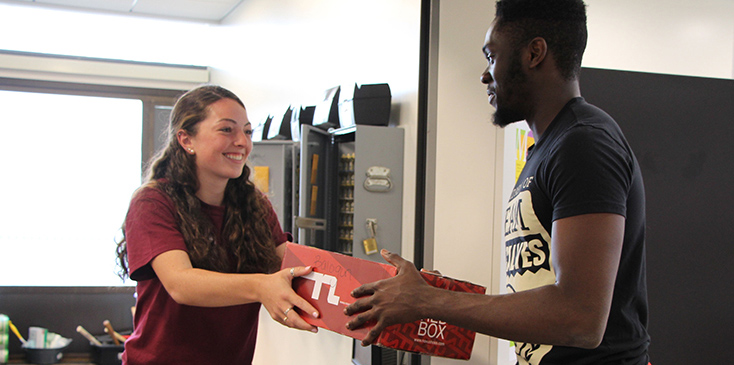
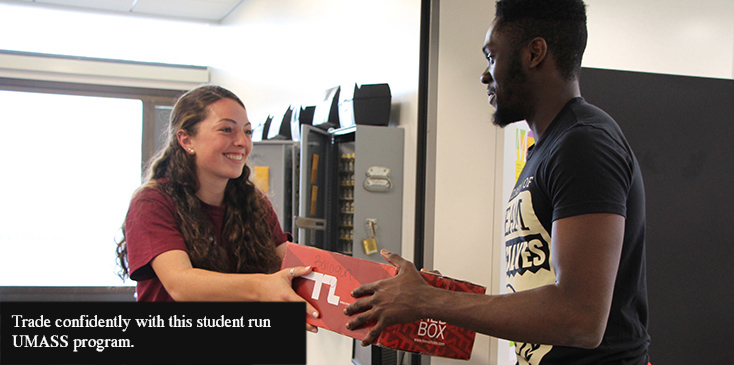
Fix some CSS issues

Changed region(s): [[0.0, 0.8137, 0.4196, 1.0]]

diff --git a/src/locallibrary/umarket/templates/home_page.html b/src/locallibrary/umarket/templates/home_page.html
@@ -17,21 +17,12 @@
     <div class="carousel-inner" role="listbox" style="max-width:900px; max-height:600px !important;">
       <div class="carousel-item active">
         <img class="img-fluid" src="{% static 'images/student_market.jpg' %}" alt="First Slide">
-        <div class="carousel-caption">
-          <h3>Placeholder</h3>
-        </div>
       </div>
       <div class="carousel-item">
         <img class="img-fluid" src="{% static 'images/student_market2.jpg' %}" alt="Second Slide">
-        <div class="carousel-caption">
-          <h3>Placeholder</h3>
-        </div>
       </div>
       <div class="carousel-item">
         <img class="img-fluid" src="{% static 'images/student_market3.jpg' %}" alt="Third Slide">
-        <div class="carousel-caption">
-          <h3>Placeholder</h3>
-        </div>
       </div>
 
       <!-- Slideshow Prev/Next buttons -->
@@ -46,21 +37,18 @@
     </div>
   </div>
 
-  <!--Margins around the buttons with max size 5-->
-  <div class="row">
-    <div class="col mx-5">
-      <div class="card" style="width:400px">
-        <img class="card-img-top" src="{% static 'images/e-commerce2.png' %}" alt="Card Image">
-        <div class="card-body text-center">
-          <!--<h4 class="card-title">Buy, Sell, and Trade!</h5>-->
-            <p class="card-text">Log back in to see what's new.</p>
-            <div class="buttons" style="text-align: center">
-              <a href="{% url 'login' %}"><button type="button" class="btn btn-dark btn-lg">Sign In</button></a>
-            </div>
-        </div>
+  <!--Card container-->
+  <div class="card" style="width:300px">
+    <img class="card-img-top" src="{% static 'images/e-commerce2.png' %}" alt="Card Image">
+    <div class="card-body text-center">
+      <!--<h4 class="card-title">Buy, Sell, and Trade!</h5>-->
+      <p class="card-text">Log back in to see what's new.</p>
+      <div class="buttons" style="text-align: center">
+        <a href="{% url 'login' %}"><button type="button" class="btn btn-dark btn-lg">Sign In</button></a>
       </div>
     </div>
   </div>
+
 
   {% endblock %}
 </body>

diff --git a/src/locallibrary/umarket/static/css/base.css b/src/locallibrary/umarket/static/css/base.css
@@ -43,6 +43,14 @@ body{
 }
 
 /* Login Page */
+.avatar{
+    width: 100px;
+    height: 100px;
+    border-radius: 50%;
+    position: absolute;
+    top: -50px;
+    left: 110px;
+}
 .loginpage{
     width: 100%;
     height: 100%;
@@ -56,7 +64,7 @@ body{
     top: 50%;
     left: 50%;
     position: absolute;
-    transform: translate(-50%, 25%);
+    transform: translate(-50%, -50%);
     box-sizing: border-box;
     padding: 70px 30px;
 }
@@ -90,7 +98,7 @@ h1{
     border: none;
     outline: none;
     height: 40px;
-    background: #fb2525;
+    background: maroon;
     color: #fff;
     font-size: 18px;
     border-radius: 20px;
@@ -121,6 +129,10 @@ footer{
     margin: 0;
     bottom: 0;
     width: 100%; 
+    flex-direction: 0;
+}
+.content{
+    flex: auto;
 }
 
 /* Homepage template. */
@@ -130,11 +142,15 @@ footer{
     max-height: 365px !important;
     text-align: center
 }
-
-/* Background image for homepage. */
 .homepage{
     width: 100%;
     height: 100%;
     background-image: url( '/static/images/umass_fade2.jpg' );
     background-repeat: no-repeat;
+}
+.card{
+    margin: 0 auto;
+    float: none;
+    margin-bottom: 10px;
+    top: 50px
 }

diff --git a/src/locallibrary/umarket/templates/registration/login.html b/src/locallibrary/umarket/templates/registration/login.html
@@ -42,9 +42,6 @@
 </center>
 -->
 
-<head>
-  <link rel="stylesheet" type="text/css" href="{% static 'css/base.css' %}">
-</head>
 
 <body class="loginpage">
 
@@ -61,9 +58,8 @@
   {% endif %}
   {% endif %}
 
-  
   <div class="loginbox">
-    <!--<img src="avatar.png" class="avatar">-->
+    <img src="{% static 'images/avatar.png' %}" class="avatar">
     <h1>Welcome Back!</h1>
     <form method="post" action="{% url 'login' %}">
       {% csrf_token %}

diff --git a/src/locallibrary/umarket/templates/template_base.html b/src/locallibrary/umarket/templates/template_base.html
@@ -58,7 +58,7 @@
     <a href="{% url 'about-page' %}">About&nbsp;&nbsp;</a>
     <a href="#">Contact&nbsp;&nbsp;</a>
     <a href="#">Support&nbsp;&nbsp;</a>
-    <a href="#">Privay Policy&nbsp;&nbsp;</a>
+    <a href="#">Privacy Policy&nbsp;&nbsp;</a>
     <a href="#">Terms of Use&nbsp;&nbsp;</a>
   </footer>
   <!--
